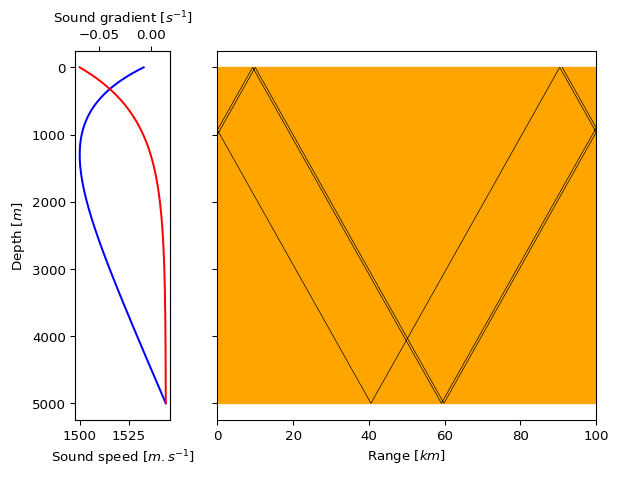
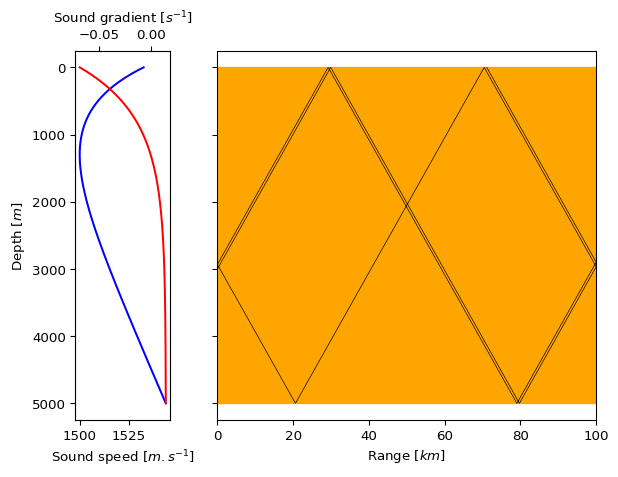
Some results working. Very cool

diff --git a/examples/python_utils.py b/examples/python_utils.py
@@ -152,15 +152,16 @@ def animate_propagation(
     return ani
 
 
+## TODO: Add sound_floor to configs
 def plot_sound_field(cfg: BeamConfig, beam_res: BeamResult):
     # Plot heatmap of sound pressure
-    _, ax, _, _ = plot_environment(cfg)
-    # rays = [beam.central_ray for beam in beam_res.beams]
-    # _, ax = plot_rays(cfg, rays)
+    # _, ax, _, _ = plot_environment(cfg)
+    rays = [beam.central_ray for beam in beam_res.beams]
+    _, ax = plot_rays(cfg, rays)
     ranges = [loc[0] / 1000.0 for loc in beam_res.pressures.locations]
     depths = [loc[1] for loc in beam_res.pressures.locations]
     magnitudes = [
-        20 * np.log10(mag * 1e6) if mag != 0 else -50 for mag in beam_res.pressures.mag
+        20 * np.log10(mag) if mag > 0 else 0 for mag in beam_res.pressures.mag
     ]
 
     n_ranges = len(np.unique(ranges))
@@ -175,9 +176,8 @@ def plot_sound_field(cfg: BeamConfig, beam_res: BeamResult):
         depths,
         magnitudes,
         shading="nearest",
-        cmap="jet",
-        vmax=150,
-        vmin=100,
+        cmap="hot",
+        vmin=0,
     )
     plt.colorbar(scat)
 

diff --git a/src/beam_tracing.rs b/src/beam_tracing.rs
@@ -163,7 +163,7 @@ impl Beam {
                     // derivation to check this.
                     let arc_step: f64 = 2.0
                         * (((beam.central_ray.ray_param * c_i1).signum()
-                            * std::f64::consts::FRAC_2_PI
+                            * std::f64::consts::FRAC_PI_2
                             - (beam.central_ray.ray_param * c_i).asin())
                             / (g_i * beam.central_ray.ray_param))
                             .abs();

diff --git a/examples/func_driver.py b/examples/func_driver.py
@@ -32,7 +32,7 @@ if __name__ == "__main__":
         SourceConfig(
             range_pos=0.0,
             depth_pos=1000.0,
-            ray_fan_limits=(-0.1, 0.2),
+            ray_fan_limits=(0.05, 0.1),
             n_rays=10,
             source_level=150,
             frequency=1000,

diff --git a/examples/example_notebook.md b/examples/example_notebook.md
@@ -35,7 +35,6 @@ from python_utils import (
 )
 import numpy as np
 from datetime import datetime
-from IPython.display import HTML
 ```
 
 This will either be run on a reasonably powerful desktop or a laptop
@@ -49,7 +48,7 @@ print(f"Physical Cores: {psutil.cpu_count(logical=False)}")
 print(f"LogicalCores: {psutil.cpu_count(logical=True)}")
 ```
 
-    x86_64
+
     Physical Cores: 8
     LogicalCores: 16
 
@@ -133,7 +132,7 @@ t = datetime.now() - t0
 print(f"Time required to complete simulation: {t}")
 ```
 
-    Time required to complete simulation: 0:00:00.050486
+    Time required to complete simulation: 0:00:00.046727
 
 To visualise the results call the `plot_rays` function.
 
@@ -168,7 +167,7 @@ method.
 ``` python
 prog_config_iso = ProgConfig(max_it=10, depth_step=1.0, max_range=1e5,
                          min_range=-1.0, output_path="output_data")
-sources_iso = [SourceConfig(range_pos=-1.0, depth_pos=1000.0,
+sources_iso = [SourceConfig(range_pos=-1.0, depth_pos=3000.0,
                         ray_fan_limits=(-0.1, 0.2), n_rays=1, source_level=150, frequency=1000)]
 bodies_iso = []
 isospaces_iso = [IsoSpace(body=Body(range_vals=[-1.0, 1e5, 1e5, -1.0, -1.0], depth_vals=[
@@ -208,10 +207,20 @@ Firstly modify the config file to have a $p-q$ equation solver from the
 selection of “BackwardEuler”, “RungeKutta4”, “Radau3IA” and “Radau3IIA”.
 
 ``` python
-prog_config = ProgConfig(max_it=int(1e5), max_range=2e5, min_range=-1.0,
+prog_config = ProgConfig(max_it=int(1e5), max_range=5e4, min_range=-1.0,
                          depth_step=1.0, output_path="output_data")
+sources = [
+  SourceConfig(
+    range_pos=0.0, 
+    depth_pos=1000.0, 
+    ray_fan_limits=(0.05, 0.1), 
+    n_rays=10, 
+    source_level=1, 
+    frequency=1000
+  )
+]
 ray_config = RayConfig(prog_config=prog_config,
-                       env_config=env_config, sources=sources_iso)
+                       env_config=env_config, sources=sources)
 beam_config = BeamConfig(
     ray_config=ray_config, pq_solver="RungeKutta4", pressure_locs=[], window_width=None)
 ```
@@ -225,7 +234,7 @@ t = datetime.now() - t0
 print(f"Time required to complete simulation: {t}")
 ```
 
-    Time required to complete simulation: 0:00:00.003785
+    Time required to complete simulation: 0:00:00.002813
 
 By taking the central ray from each beam object the same ray propagation
 plot can be created as before with the ray tracing approach.
@@ -268,12 +277,9 @@ beam_res = trace_beams(beam_config)
 t = datetime.now() - t0
 print(f"Time required to complete simulation: {t}")
 fig = plot_pq(beam_res.beams[0:10])
-fig.axes[0].set_ylim((-1, 5))
-fig.axes[2].set_ylim((-1e-10, 5e-10))
-fig.axes[3].set_ylim((-1e-5, 3e-3))
 ```
 
-    Time required to complete simulation: 0:00:08.195565
+    Time required to complete simulation: 0:00:16.592194
 
 ![](example_notebook_files/figure-commonmark/cell-17-output-2.png)
 
@@ -284,9 +290,9 @@ cannot be accurately completed.
 
 ## Pressure Field
 
-Calculation of the pressure field does not appear to be working
-correctly although it is unclear if this is an artefact of the shading
-or the result at this point in time.
+Pressure field calculation appears somewhat reasonable although current
+results are completely unverified and further investigation will be
+undertaken.
 
 ``` python
 plot_sound_field(cfg=beam_config.ray_config, beam_res=beam_res)

diff --git a/README.md b/README.md
@@ -6,7 +6,7 @@ This project was created in order to develop knowledge for both the theory/physi
 
 For a more detailed description of the underlying theory please see the ``docs\theory.tex`` file (this should eventually be compiled as a pdf file and included under the releases section of this page).
 
-![Geometric ray tracing output](./examples/example_notebook_files/figure-commonmark/cell-8-output-1.png)
+![Geometric ray tracing output](./examples/example_notebook_files/figure-commonmark/cell-18-output-2.png)
 
 ## Examples & Theory
 
